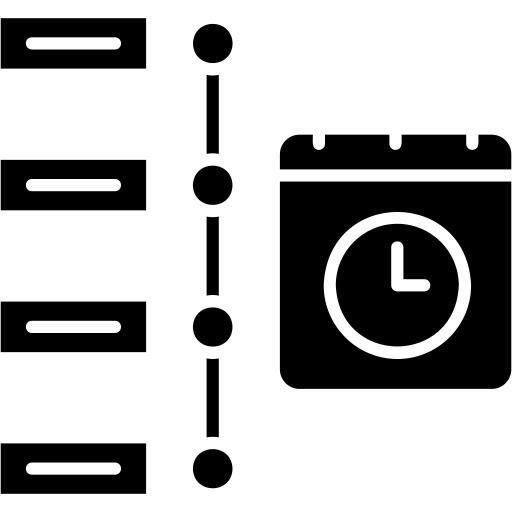
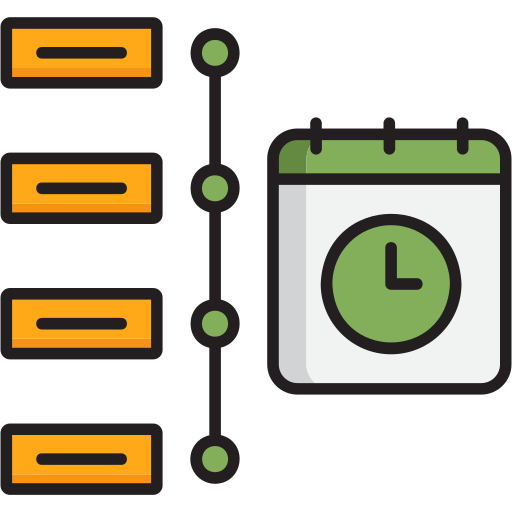
se implemento el apartado del cronograma en el trabajador, se cambiaron las imagenes del inicio del trabajador, en el administrador se eliminan los productos en el inventario.

diff --git a/Frontend/src/pages/PagesTrabajador/CronogramaTrabajador.jsx b/Frontend/src/pages/PagesTrabajador/CronogramaTrabajador.jsx
@@ -1,56 +1,70 @@
-import React, { useEffect, useState } from 'react';
-import axios from 'axios';
-import TablaAdmin from '../../components/TablaAdmin';
+import React, { useEffect, useState } from "react";
+import axios from "axios";
+import { getAccessToken } from "../../api/authservice";
 
 import "../../assets/styles/Global.css";
+import "../../assets/styles/CronogramaTrabajador.css"; // estilos solo para esta tabla
 
 export default function CronogramaTrabajador() {
-    const encabezados = ['Id','Nombre trabajador', 'Cargo', 'Actividades', 'Horarios', 'Fecha'];
-    const [filas, setFilas] = useState([]);
+    const [cronogramas, setCronogramas] = useState([]);
+    const id_usuario = localStorage.getItem("id_usuario");
 
-    const obtenerCronogramas = () => {
-        const id_usuario = localStorage.getItem("id_usuario"); // o de donde lo saques
+    const obtenerCronogramas = async () => {
+        const token = getAccessToken();
 
-        axios.get(`http://localhost:8000/api/trabajador/cronograma/${id_usuario}/`, {
-            headers: {
-                Authorization: `Bearer ${localStorage.getItem('token')}`, // si usas JWT
+        if (!token || !id_usuario) {
+            console.error("Token o id de usuario no encontrado, debes iniciar sesión");
+            return;
+        }
+
+        try {
+            const response = await axios.get(
+                `http://localhost:8000/api/trabajador/cronograma/${id_usuario}/`,
+                {
+                    headers: { Authorization: `Bearer ${token}` },
+                }
+            );
+            setCronogramas(response.data);
+        } catch (error) {
+            if (error.response?.status === 401) {
+                console.error("Token expirado o inválido, debe iniciar sesión nuevamente");
+            } else {
+                console.error("Error al obtener cronogramas:", error);
             }
-        })
-        .then(response => {
-            const cronogramas = response.data;
-
-            const filasConvertidas = cronogramas.map(item => {
-                const horario = `${item.hora_inicio} - ${item.hora_fin}`;
-                const fecha = item.fecha;
-                const nombreCompleto = item.nombre_completo || "—";
-
-                return [
-                    nombreCompleto,
-                    item.titulo || '—',
-                    item.descripcion || '—',
-                    horario,
-                    fecha,
-                ];
-            });
-
-            setFilas(filasConvertidas);
-        })
-        .catch(error => {
-            console.error("Error al cargar cronogramas del trabajador:", error);
-        });
-    }; // 👈 aquí cerramos correctamente la función
+        }
+    };
 
     useEffect(() => {
         obtenerCronogramas();
     }, []);
 
     return (
-        <>
-            <div>
-                <h2 className="titulo_seccion">Mi Cronograma</h2>
-                <TablaAdmin encabezados={encabezados} filas={filas} />
-                <br />
+        <main className="cronograma-trabajador">
+            <h2>Mi Cronograma</h2>
+            <div className="tabla-cronograma">
+                <table>
+                    <thead>
+                        <tr>
+                            <th>Id Usuario</th>
+                            <th>Título</th>
+                            <th>Descripción</th>
+                            <th>Horario</th>
+                            <th>Fecha</th>
+                        </tr>
+                    </thead>
+                    <tbody>
+                        {cronogramas.map((item, index) => (
+                            <tr key={index}>
+                                <td>{item.id_usuario}</td>
+                                <td>{item.titulo}</td>
+                                <td>{item.descripcion}</td>
+                                <td>{item.hora_inicio} - {item.hora_fin}</td>
+                                <td>{item.fecha}</td>
+                            </tr>
+                        ))}
+                    </tbody>
+                </table>
             </div>
-        </>
+        </main>
     );
 }

diff --git a/Frontend/src/assets/styles/CronogramaTrabajador.css b/Frontend/src/assets/styles/CronogramaTrabajador.css
@@ -1,0 +1,69 @@
+.cronograma-trabajador {
+    display: flex;
+    flex-direction: column; /* Título arriba, tabla abajo */
+    justify-content: center; /* Centrar vertical */
+    align-items: center;     /* Centrar horizontal */
+    padding: 30px;
+    font-family: Arial, sans-serif;
+    color: #f0f0f0;
+}
+
+.cronograma-trabajador h2 {
+    margin-bottom: 40px; /* 🔥 Más espacio entre el título y la tabla */
+    text-align: center;
+    color: #fff;
+    font-size: 2rem;
+    font-weight: bold;
+    letter-spacing: 1px;
+}
+
+.tabla-cronograma {
+    width: 80%;
+    max-width: 1000px;
+    margin: 0 auto;   /* 🔥 Esto centra horizontalmente */
+    background: #000;
+    border-radius: 12px;
+    overflow: hidden;
+    box-shadow: 0 4px 15px #000;
+
+    display: flex;            /* 🔥 Nuevo */
+    justify-content: center;  /* Centra la tabla dentro */
+}
+
+.tabla-cronograma table {
+    width: 100%;
+    border-collapse: collapse;
+}
+
+.tabla-cronograma th,
+.tabla-cronograma td {
+    border: 1px solid #fff;
+    padding: 12px 15px;
+    text-align: center;
+}
+
+.tabla-cronograma th {
+    background-color: #b07a46;
+    color: #000;
+    font-size: 1rem;
+    font-weight: bold;
+    text-transform: uppercase;
+}
+
+.tabla-cronograma td {
+    color: #fff;
+}
+
+.tabla-cronograma tr:nth-child(even) {
+    background-color: #000000;
+}
+
+.tabla-cronograma tr:nth-child(odd) {
+    background-color: #000;
+}
+
+.tabla-cronograma tr:hover {
+    background-color: #333;
+    transition: background 0.3s ease-in-out;
+    cursor: pointer;
+}

diff --git a/Frontend/src/api/authservice.js b/Frontend/src/api/authservice.js
@@ -1,0 +1,10 @@
+export const getAccessToken = () => localStorage.getItem('access');
+export const getRefreshToken = () => localStorage.getItem('refresh');
+
+export const setAccessToken = (token) => localStorage.setItem('access', token);
+export const setRefreshToken = (token) => localStorage.setItem('refresh', token);
+
+export const removeTokens = () => {
+    localStorage.removeItem('access');
+    ocalStorage.removeItem('refresh');
+};

diff --git a/Backend/trabajador/views.py b/Backend/trabajador/views.py
@@ -5,7 +5,7 @@ from rest_framework.permissions import IsAuthenticated
 from carrito.serializers import FacturaSerializer
 from rest_framework import status
 from carrito.models import Factura, Pedido, Producto
-from .serializers import PedidoSerializer, CronogramaSerializer #
+from .serializers import PedidoSerializer, CronogramaTrabajadorSerializer #
 from rest_framework.decorators import api_view, permission_classes
 from django.shortcuts import get_object_or_404
 from django.core.mail import send_mail
@@ -16,6 +16,8 @@ from rest_framework.decorators import api_view, permission_classes
 from django.core.mail import EmailMultiAlternatives
 from rest_framework.views import APIView #
 from administrador.models import Cronograma #
+from usuarios.models import Usuario #
+from rest_framework import status, permissions#
 
 @api_view(['GET'])
 @permission_classes([IsAuthenticated])
@@ -263,13 +265,22 @@ def actualizar_estado_pedido(request):
 
 #cronograma
 class CronogramaMiUsuarioView(APIView):
+    permission_classes = [permissions.IsAuthenticated]  # solo usuarios autenticados
+
     def get(self, request, id_usuario):
+        # Validar que el usuario existe y es trabajador
         try:
-            cronogramas = Cronograma.objects.filter(id_usuario=id_usuario)
-            serializer = CronogramaSerializer(cronogramas, many=True)
-            return Response(serializer.data, status=status.HTTP_200_OK)
-        except Cronograma.DoesNotExist:
+            usuario = Usuario.objects.get(id_usuario=id_usuario, rol='trabajador')
+        except Usuario.DoesNotExist:
             return Response(
-                {"error": "No se encontró cronograma para este usuario"},
+                {"error": "Usuario no encontrado o no es trabajador"},
                 status=status.HTTP_404_NOT_FOUND
             )
+
+        # Opcional: solo permitir que el trabajador vea su propio cronograma o admins
+        if request.user.id != usuario.id and not request.user.rol == 'admin':
+            return Response({"error": "No autorizado"}, status=status.HTTP_403_FORBIDDEN)
+
+        cronogramas = Cronograma.objects.filter(id_usuario=id_usuario)
+        serializer = CronogramaTrabajadorSerializer(cronogramas, many=True) 
+        return Response(serializer.data, status=status.HTTP_200_OK)

diff --git a/Backend/trabajador/serializers.py b/Backend/trabajador/serializers.py
@@ -2,6 +2,7 @@
 from rest_framework import serializers
 from carrito.models import Factura, Pedido
 from administrador.models import Cronograma #
+from administrador.serializers import UsuarioSerializer 
 
 class FacturaSerializer(serializers.ModelSerializer):
     clienteId = serializers.CharField(source='usuario.username', read_only=True)
@@ -17,7 +18,22 @@ class PedidoSerializer(serializers.ModelSerializer):
         fields = '__all__'
 
 #cronograma
-class CronogramaSerializer(serializers.ModelSerializer):
+class CronogramaTrabajadorSerializer(serializers.ModelSerializer):
+    id_usuario = serializers.PrimaryKeyRelatedField(read_only=True)
+
+    hora_inicio = serializers.SerializerMethodField()
+    hora_fin = serializers.SerializerMethodField()
+    fecha = serializers.SerializerMethodField()
+
     class Meta:
         model = Cronograma
-        fields = ['id_cronograma', 'usuario', 'cargo', 'actividades', 'horarios', 'fecha']
+        fields = [ 'id_usuario', 'titulo', 'descripcion', 'hora_inicio', 'hora_fin', 'fecha']
+
+    def get_hora_inicio(self, obj):
+        return obj.fecha_inicio.strftime("%H:%M") if obj.fecha_inicio else None
+
+    def get_hora_fin(self, obj):
+        return obj.fecha_fin.strftime("%H:%M") if obj.fecha_fin else None
+
+    def get_fecha(self, obj):
+        return obj.fecha_inicio.strftime("%d/%m/%Y") if obj.fecha_inicio else None

diff --git a/Backend/orquidea/settings.py b/Backend/orquidea/settings.py
@@ -180,7 +180,7 @@ DATABASES = {
         #este campo especifica el nombre del usuario que se utilzara para autenticar la conexion con la base de datos
         'USER': "root",
         #este campo especifica la constraseña asociada con el usuario
-        'PASSWORD': 'admin',
+        'PASSWORD': '090906',
         #este campo especifica la direccion del servidor de la base de datos
         'HOST': 'localhost',
         #este campo especifica el puerto en el que se encuentra el servidor de la base de datos

diff --git a/Backend/trabajador/urls.py b/Backend/trabajador/urls.py
@@ -9,6 +9,6 @@ urlpatterns = [
     path('historial-pedidos/', historial_pedidos, name='historial_pedidos'),
     path('estados-pedidos/', listar_estados_pedidos),
     path('actualizar-estado/',actualizar_estado_pedido, name="actualizar_estado_pedido"),
-    path('cronograma/<int:id_usuario>/', CronogramaMiUsuarioView.as_view(), name='cronograma_usuario'), # cronograma
+    path('cronograma/<int:id_usuario>/', CronogramaMiUsuarioView.as_view(), name='cronograma-trabajador'), # cronograma
 ]
 
